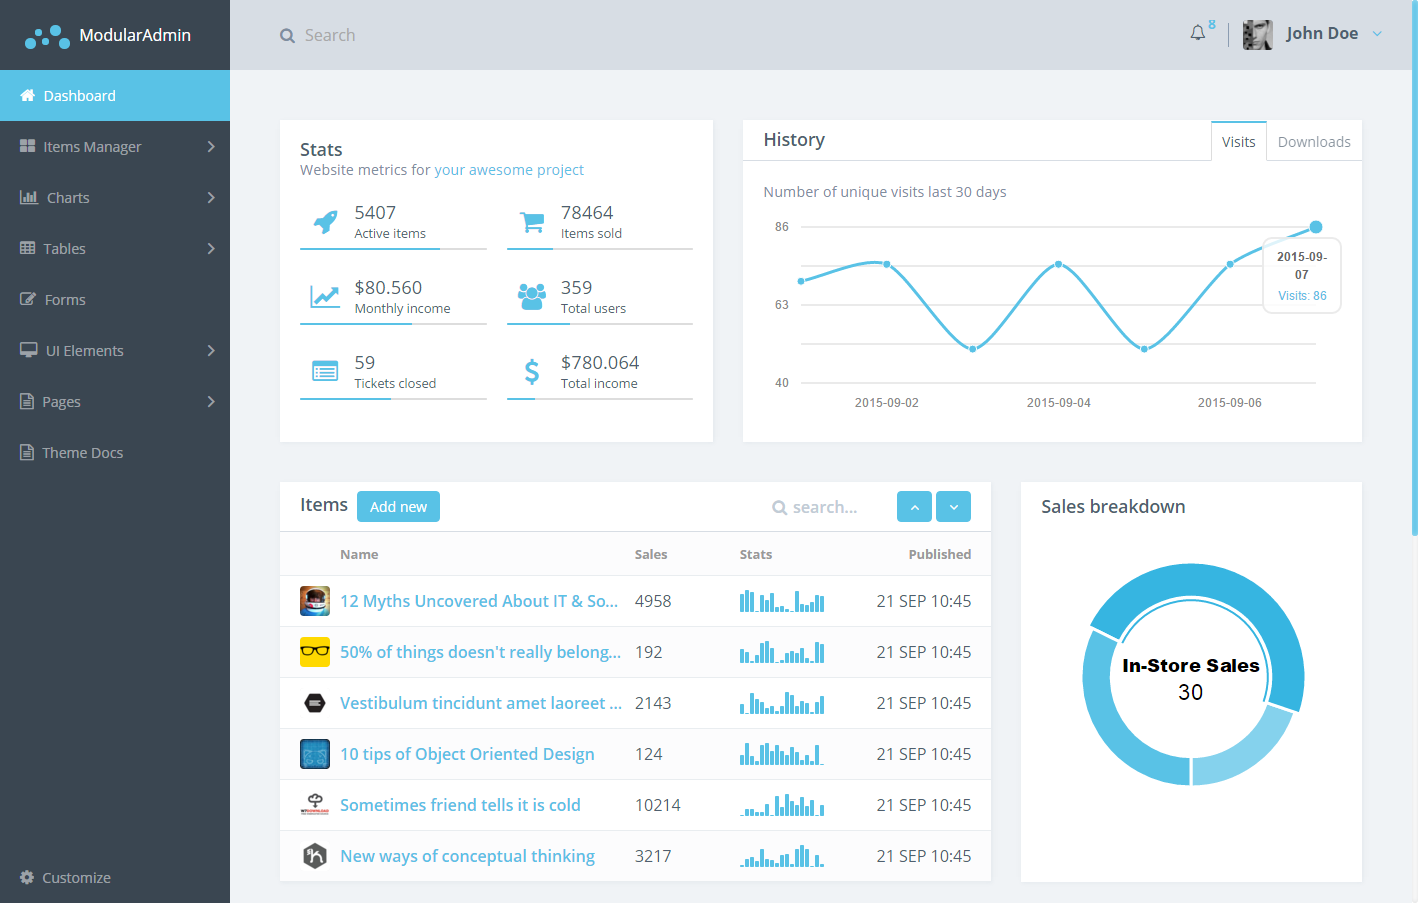
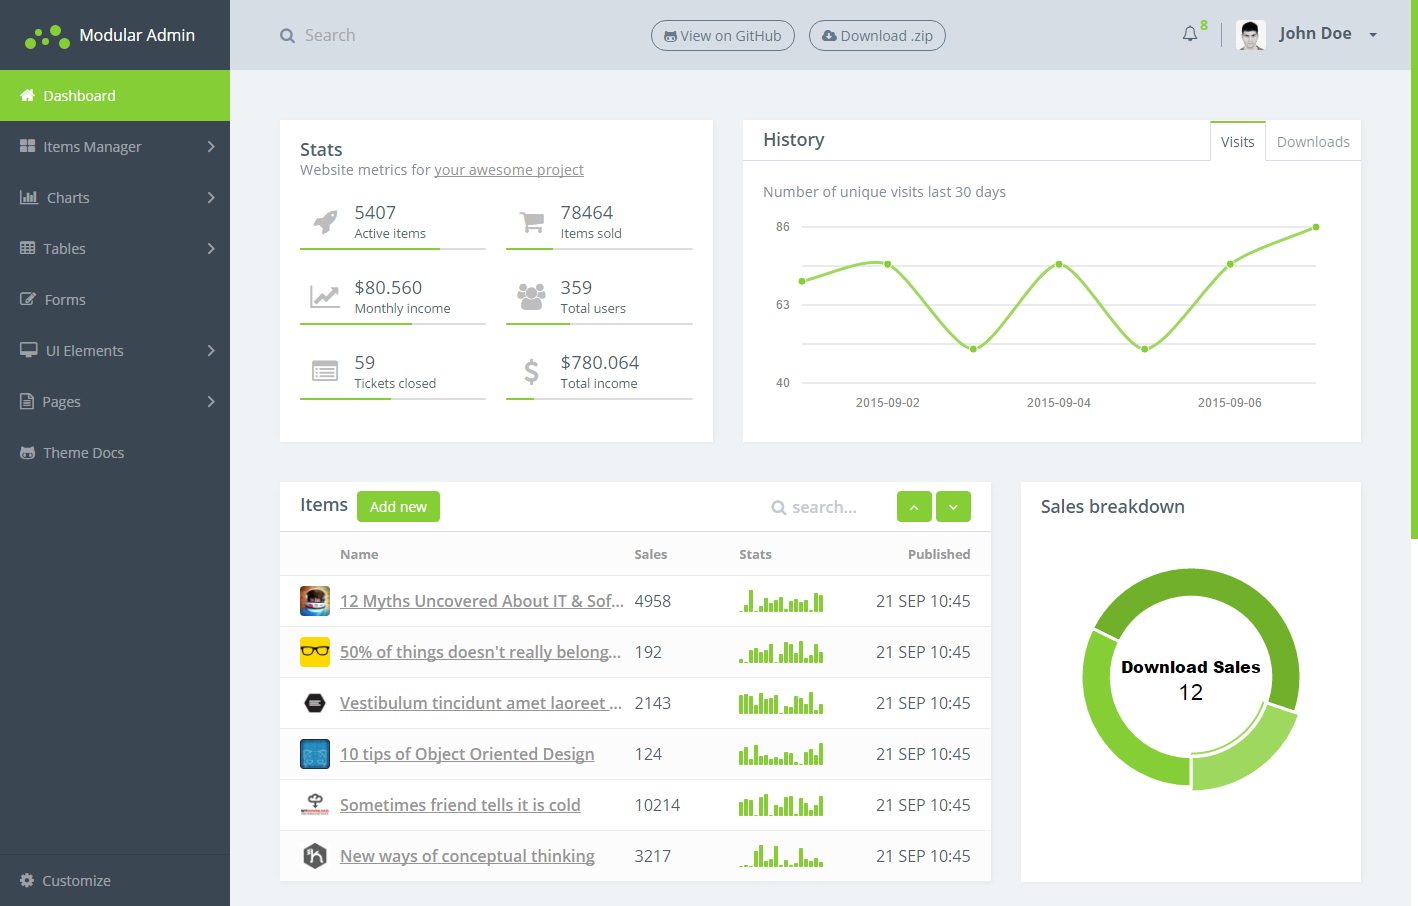
Update default color

diff --git a/src/_variables.scss b/src/_variables.scss
@@ -7,7 +7,7 @@
 *					  Colors Definitions
 **************************************************************/
 
-$color-primary: #59c2e6 !default;
+$color-primary: #85CE36 !default;
 $color-primary-light: lighten($color-primary, 10%) !default; 
 $color-primary-lighter: lighten($color-primary-light, 6%) !default; 
 $color-primary-dark: darken($color-primary, 10%) !default;
@@ -41,12 +41,12 @@ $btn-primary-color-text: $color-text-inverse !default;
 
 
 // Links
-$link-color: $color-primary !default;
-$link-transition: color 0.13s !default;
-$link-decoration: none !default;
+$link-color: #969696 !default;
+$link-transition: initial;
+$link-decoration: underline;
 
-$link-hover-color: darken($color-primary, 15%) !default;
-$link-hover-decoration: inherit !default;
+$link-hover-color: darken($color-primary, 8%) !default;
+$link-hover-decoration: underline !default;
 
 // Header
 $header-height: 70px !default;
@@ -101,4 +101,4 @@ $chart-color-secondary: lighten($chart-color-primary, 10%) !default;
 ****************************************************** */
 
 // Dashboard
-$dashboard-stat-icon-color: $color-primary !default;
+$dashboard-stat-icon-color: #BDBDBD !default;
